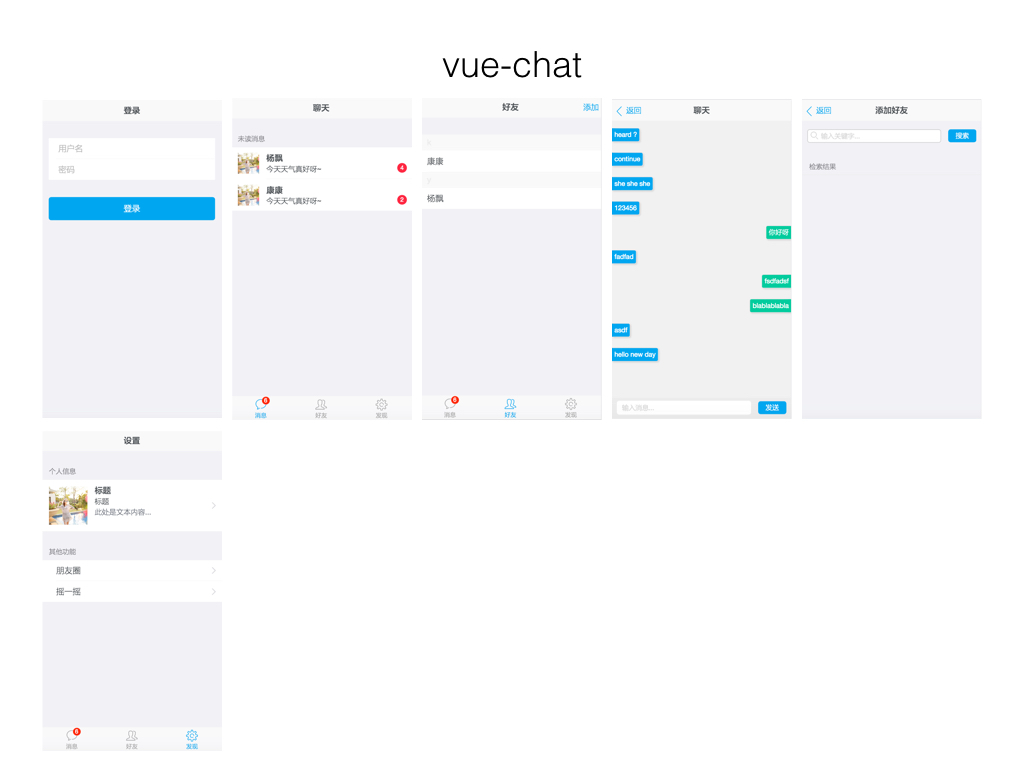
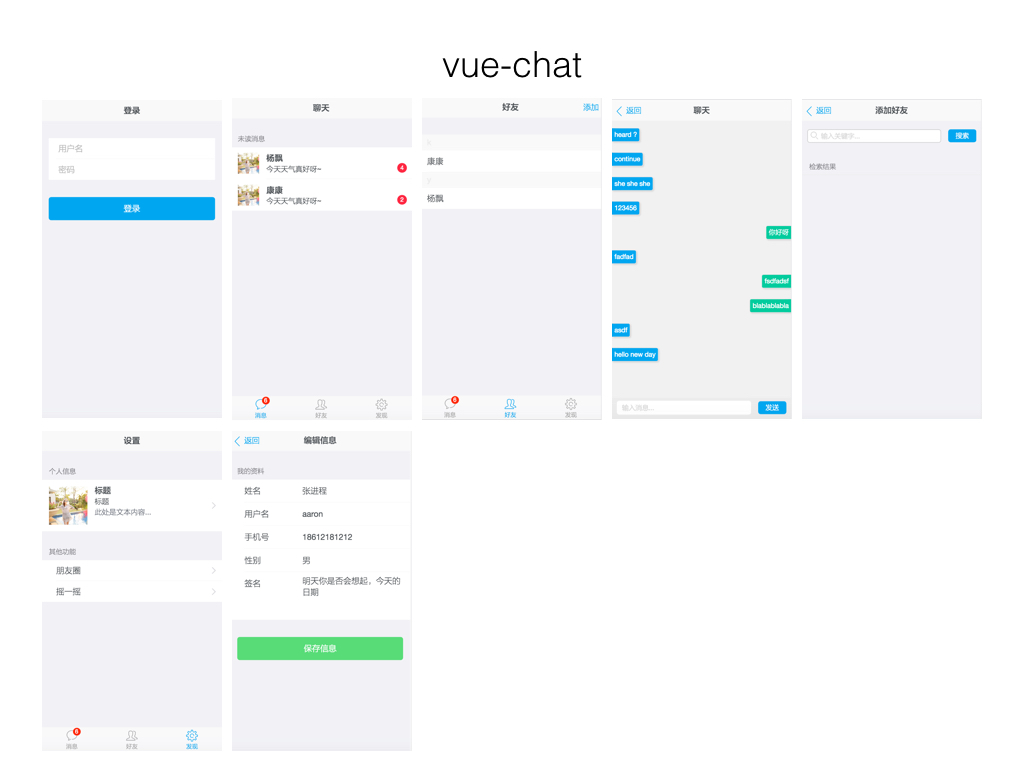
update

diff --git a/src/views/EditInfo.vue b/src/views/EditInfo.vue
@@ -1,0 +1,102 @@
+<template>
+<p-header title='编辑信息'>
+  <button class="button button-link button-nav pull-left" @click="this.$router.go({'name': 'settings'})">
+  <span class="icon icon-left"></span>
+  返回
+</button>
+</p-header>
+<div class="content">
+  <div class="content-block-title">我的资料</div>
+  <div class="list-block">
+    <ul>
+      <!-- Text inputs -->
+      <li>
+        <div class="item-content">
+          <div class="item-media"><i class="icon icon-form-name"></i></div>
+          <div class="item-inner">
+            <div class="item-title label">姓名</div>
+            <div class="item-input">
+              <input type="text" placeholder="Your name" v-model="info.nickname">
+            </div>
+          </div>
+        </div>
+      </li>
+      <li>
+        <div class="item-content">
+          <div class="item-media"><i class="icon icon-form-name"></i></div>
+          <div class="item-inner">
+            <div class="item-title label">用户名</div>
+            <div class="item-input">
+              <input type="text" placeholder="Your name" readonly="" v-model="info.username">
+            </div>
+          </div>
+        </div>
+      </li>
+      <li>
+        <div class="item-content">
+          <div class="item-media"><i class="icon icon-form-name"></i></div>
+          <div class="item-inner">
+            <div class="item-title label">手机号</div>
+            <div class="item-input">
+              <input type="text" placeholder="Your name" v-model="info.mobile">
+            </div>
+          </div>
+        </div>
+      </li>
+      <li>
+        <div class="item-content">
+          <div class="item-media"><i class="icon icon-form-gender"></i></div>
+          <div class="item-inner">
+            <div class="item-title label">性别</div>
+            <div class="item-input">
+              <select>
+                <option>男</option>
+                <option>女</option>
+              </select>
+            </div>
+          </div>
+        </div>
+      </li>
+      <li class="align-top">
+        <div class="item-content">
+          <div class="item-media"><i class="icon icon-form-comment"></i></div>
+          <div class="item-inner">
+            <div class="item-title label">签名</div>
+            <div class="item-input">
+              <textarea>{{info.motto}}</textarea>
+            </div>
+          </div>
+        </div>
+      </li>
+    </ul>
+  </div>
+  <div class="content-block">
+    <a class="button button-big button-fill button-success">保存信息</a>
+  </div>
+</div>
+</template>
+
+<script>
+import PHeader from '../components/PHeader'
+
+export default {
+  data: function () {
+    return {
+      info: {}
+    }
+  },
+  computed: {},
+  ready: function () {
+    let info = JSON.parse(window.localStorage.getItem('info'))
+    this.info = info
+  },
+  attached: function () {},
+  methods: {},
+  components: {
+    PHeader
+  }
+}
+</script>
+
+<style lang="css">
+</style>

diff --git a/src/views/Settings.vue b/src/views/Settings.vue
@@ -7,7 +7,7 @@
   <div class="list-block media-list">
     <ul>
       <li>
-        <a href="#" class="item-link item-content">
+        <a v-link="{name: 'editinfo'}" class="item-link item-content">
           <div class="item-media"><img src="{{ info.image_head }}" style='width: 4rem;'></div>
           <div class="item-inner">
             <div class="item-title-row">
@@ -79,7 +79,7 @@ export default {
 
 <style lang="css">
 .item-content .item-subtitle {
-  height: 25px;
-  line-height: 25px;
+  height: 30px;
+  line-height: 30px;
 }
 </style>

diff --git a/src/router.js b/src/router.js
@@ -39,6 +39,13 @@ export default function (router) {
         require(['./views/Settings'], resolve)
       }
     },
+    '/editinfo': {
+      name: 'editinfo',
+      auth: true,
+      component: function (resolve) {
+        require(['./views/EditInfo'], resolve)
+      }
+    },
     '/chatbox/:uid': {
       name: 'chatbox',
       auth: true,

diff --git a/src/main.js b/src/main.js
@@ -27,7 +27,7 @@ router.beforeEach((transition) => {
   }
   console.log('visiting' + transition.to.path)
   Vue.http.headers.common['Authorization'] = 'Bearer ' + token
-  if (ws.ws === undefined) {
+  if (ws.ws === undefined && transition.to.auth) {
     console.log('connection to ws...')
     ws.connect()
   }
